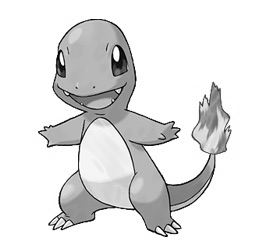
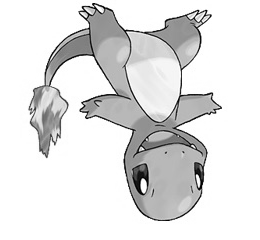
Rotate images

diff --git a/main.py b/main.py
@@ -2,4 +2,6 @@ from PIL import Image, ImageFilter
 
 img = Image.open('image-playground/charmander.jpg')
 filtered_img = img.convert('L')
-filtered_img.save("grayCharmander.png", 'png')
+crooked = filtered_img.rotate(180)
+crooked.save("grayCharmander.png", 'png')
+# filtered_img.show()
